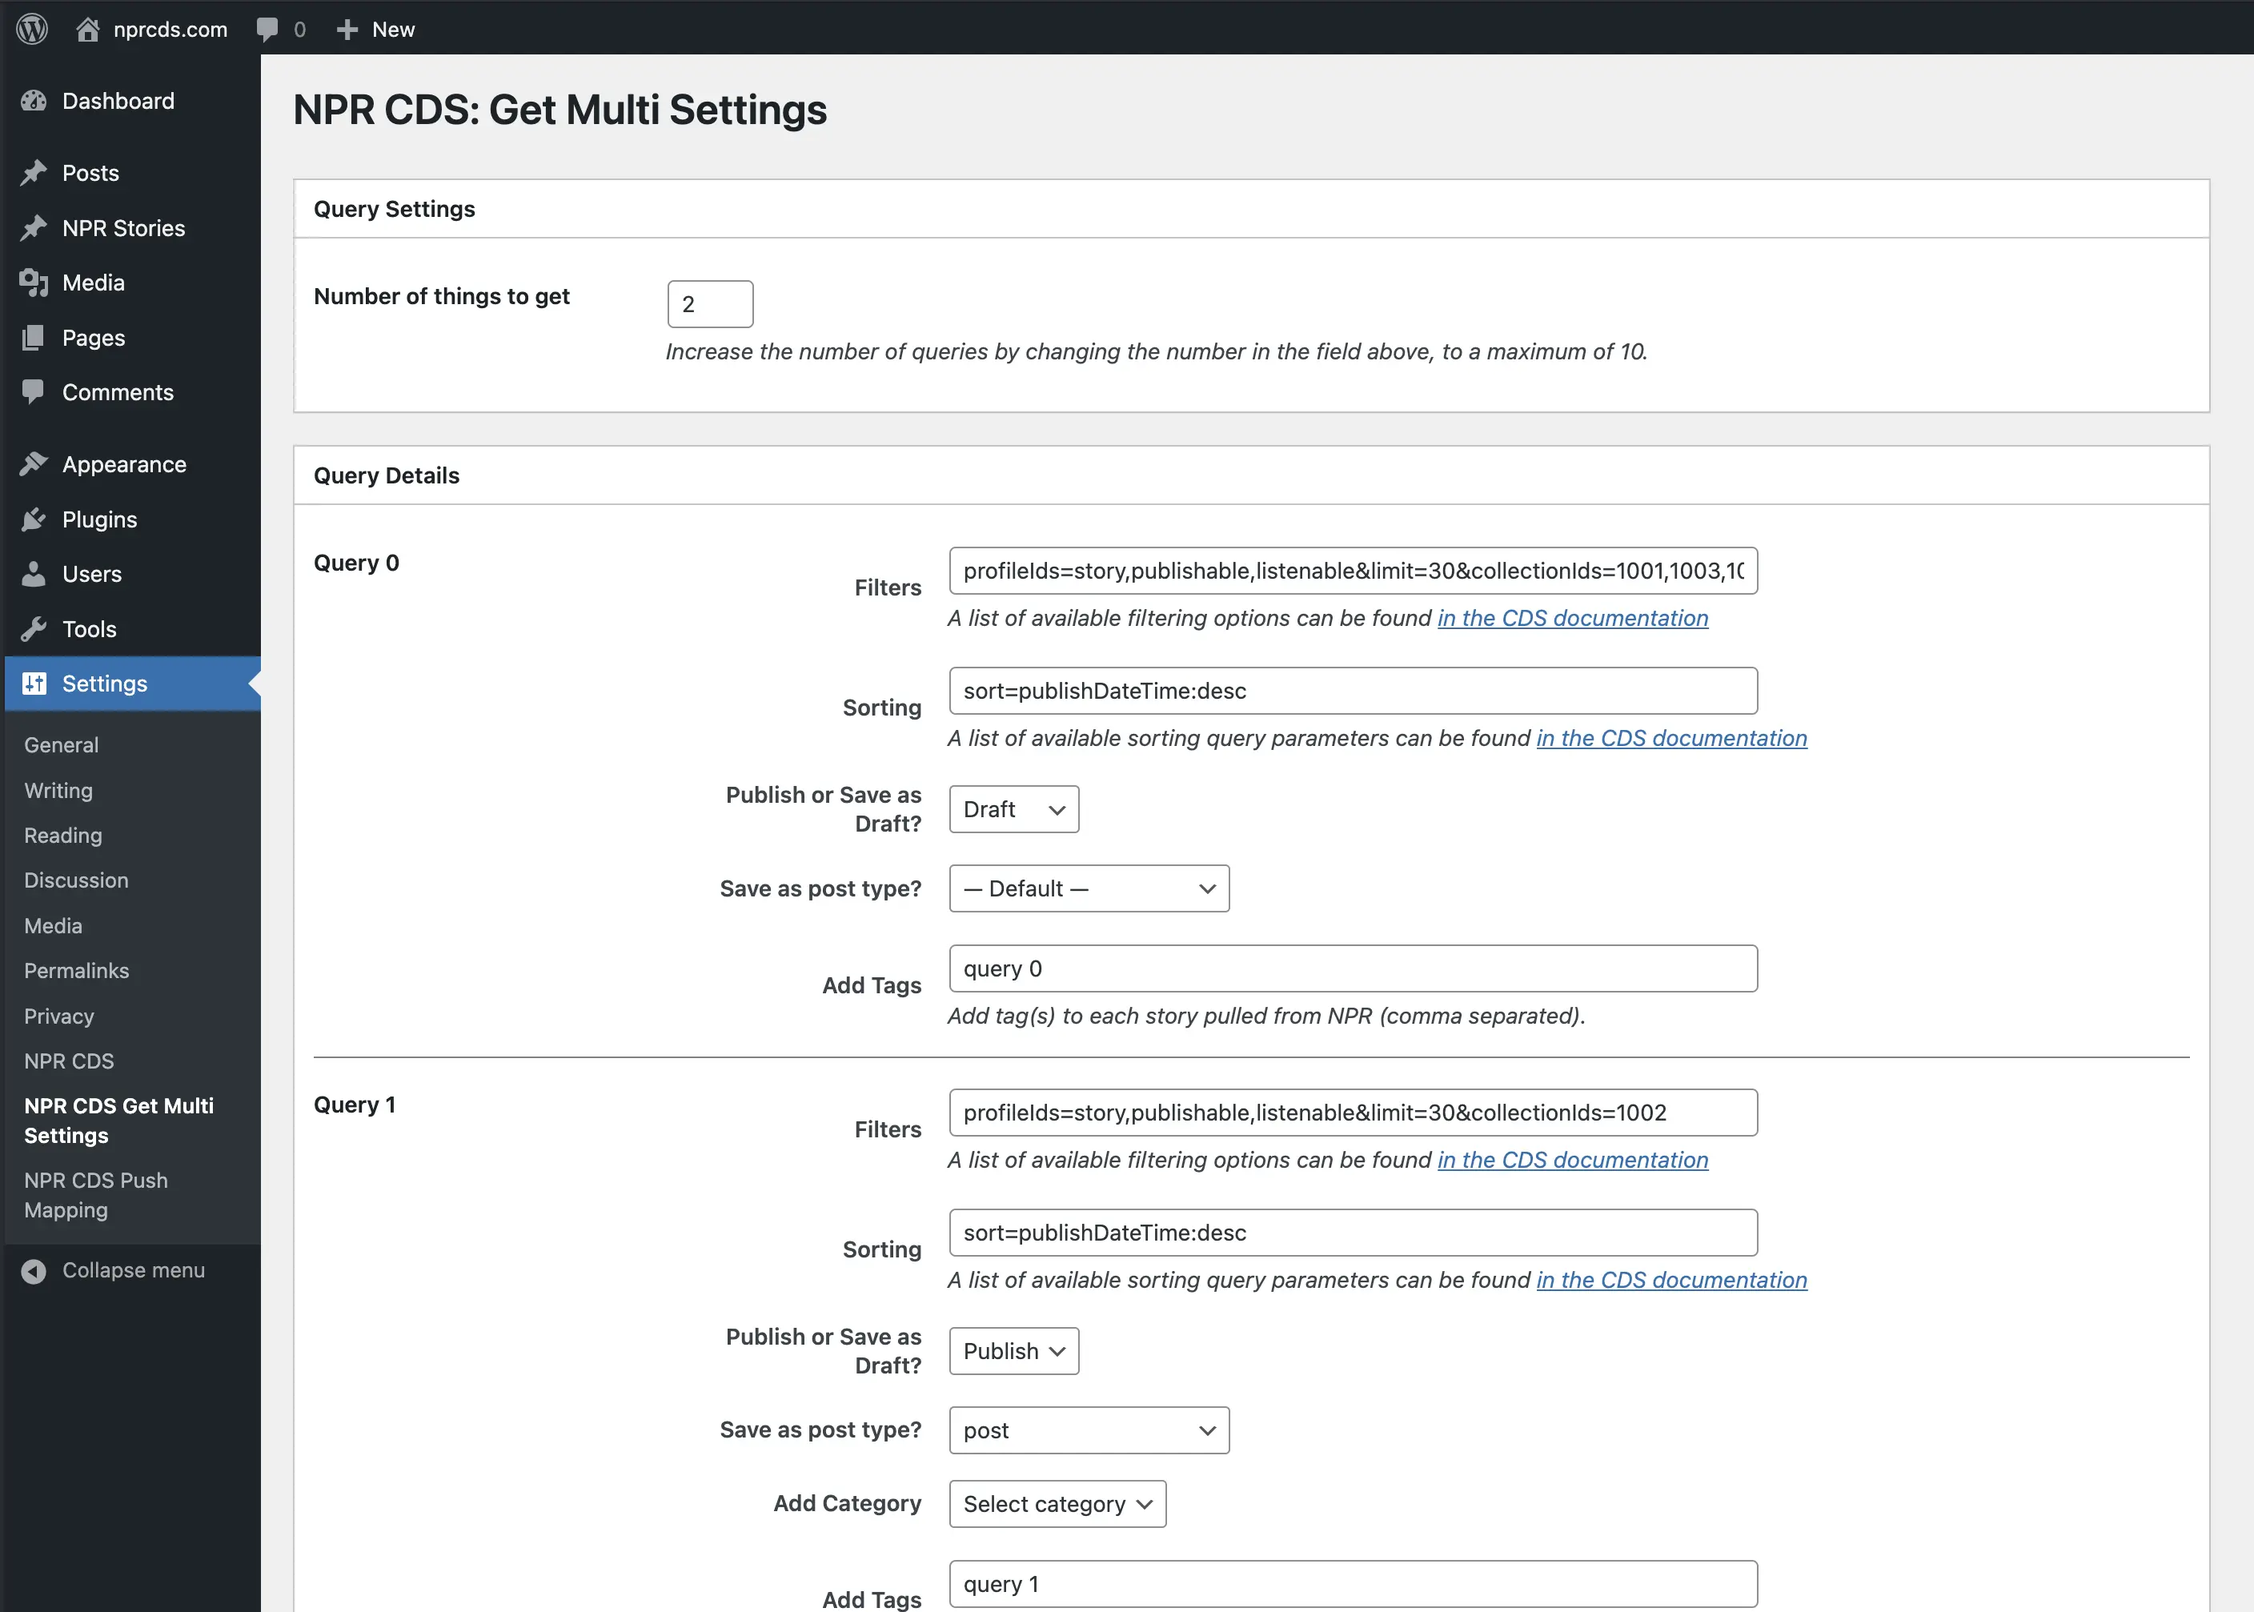
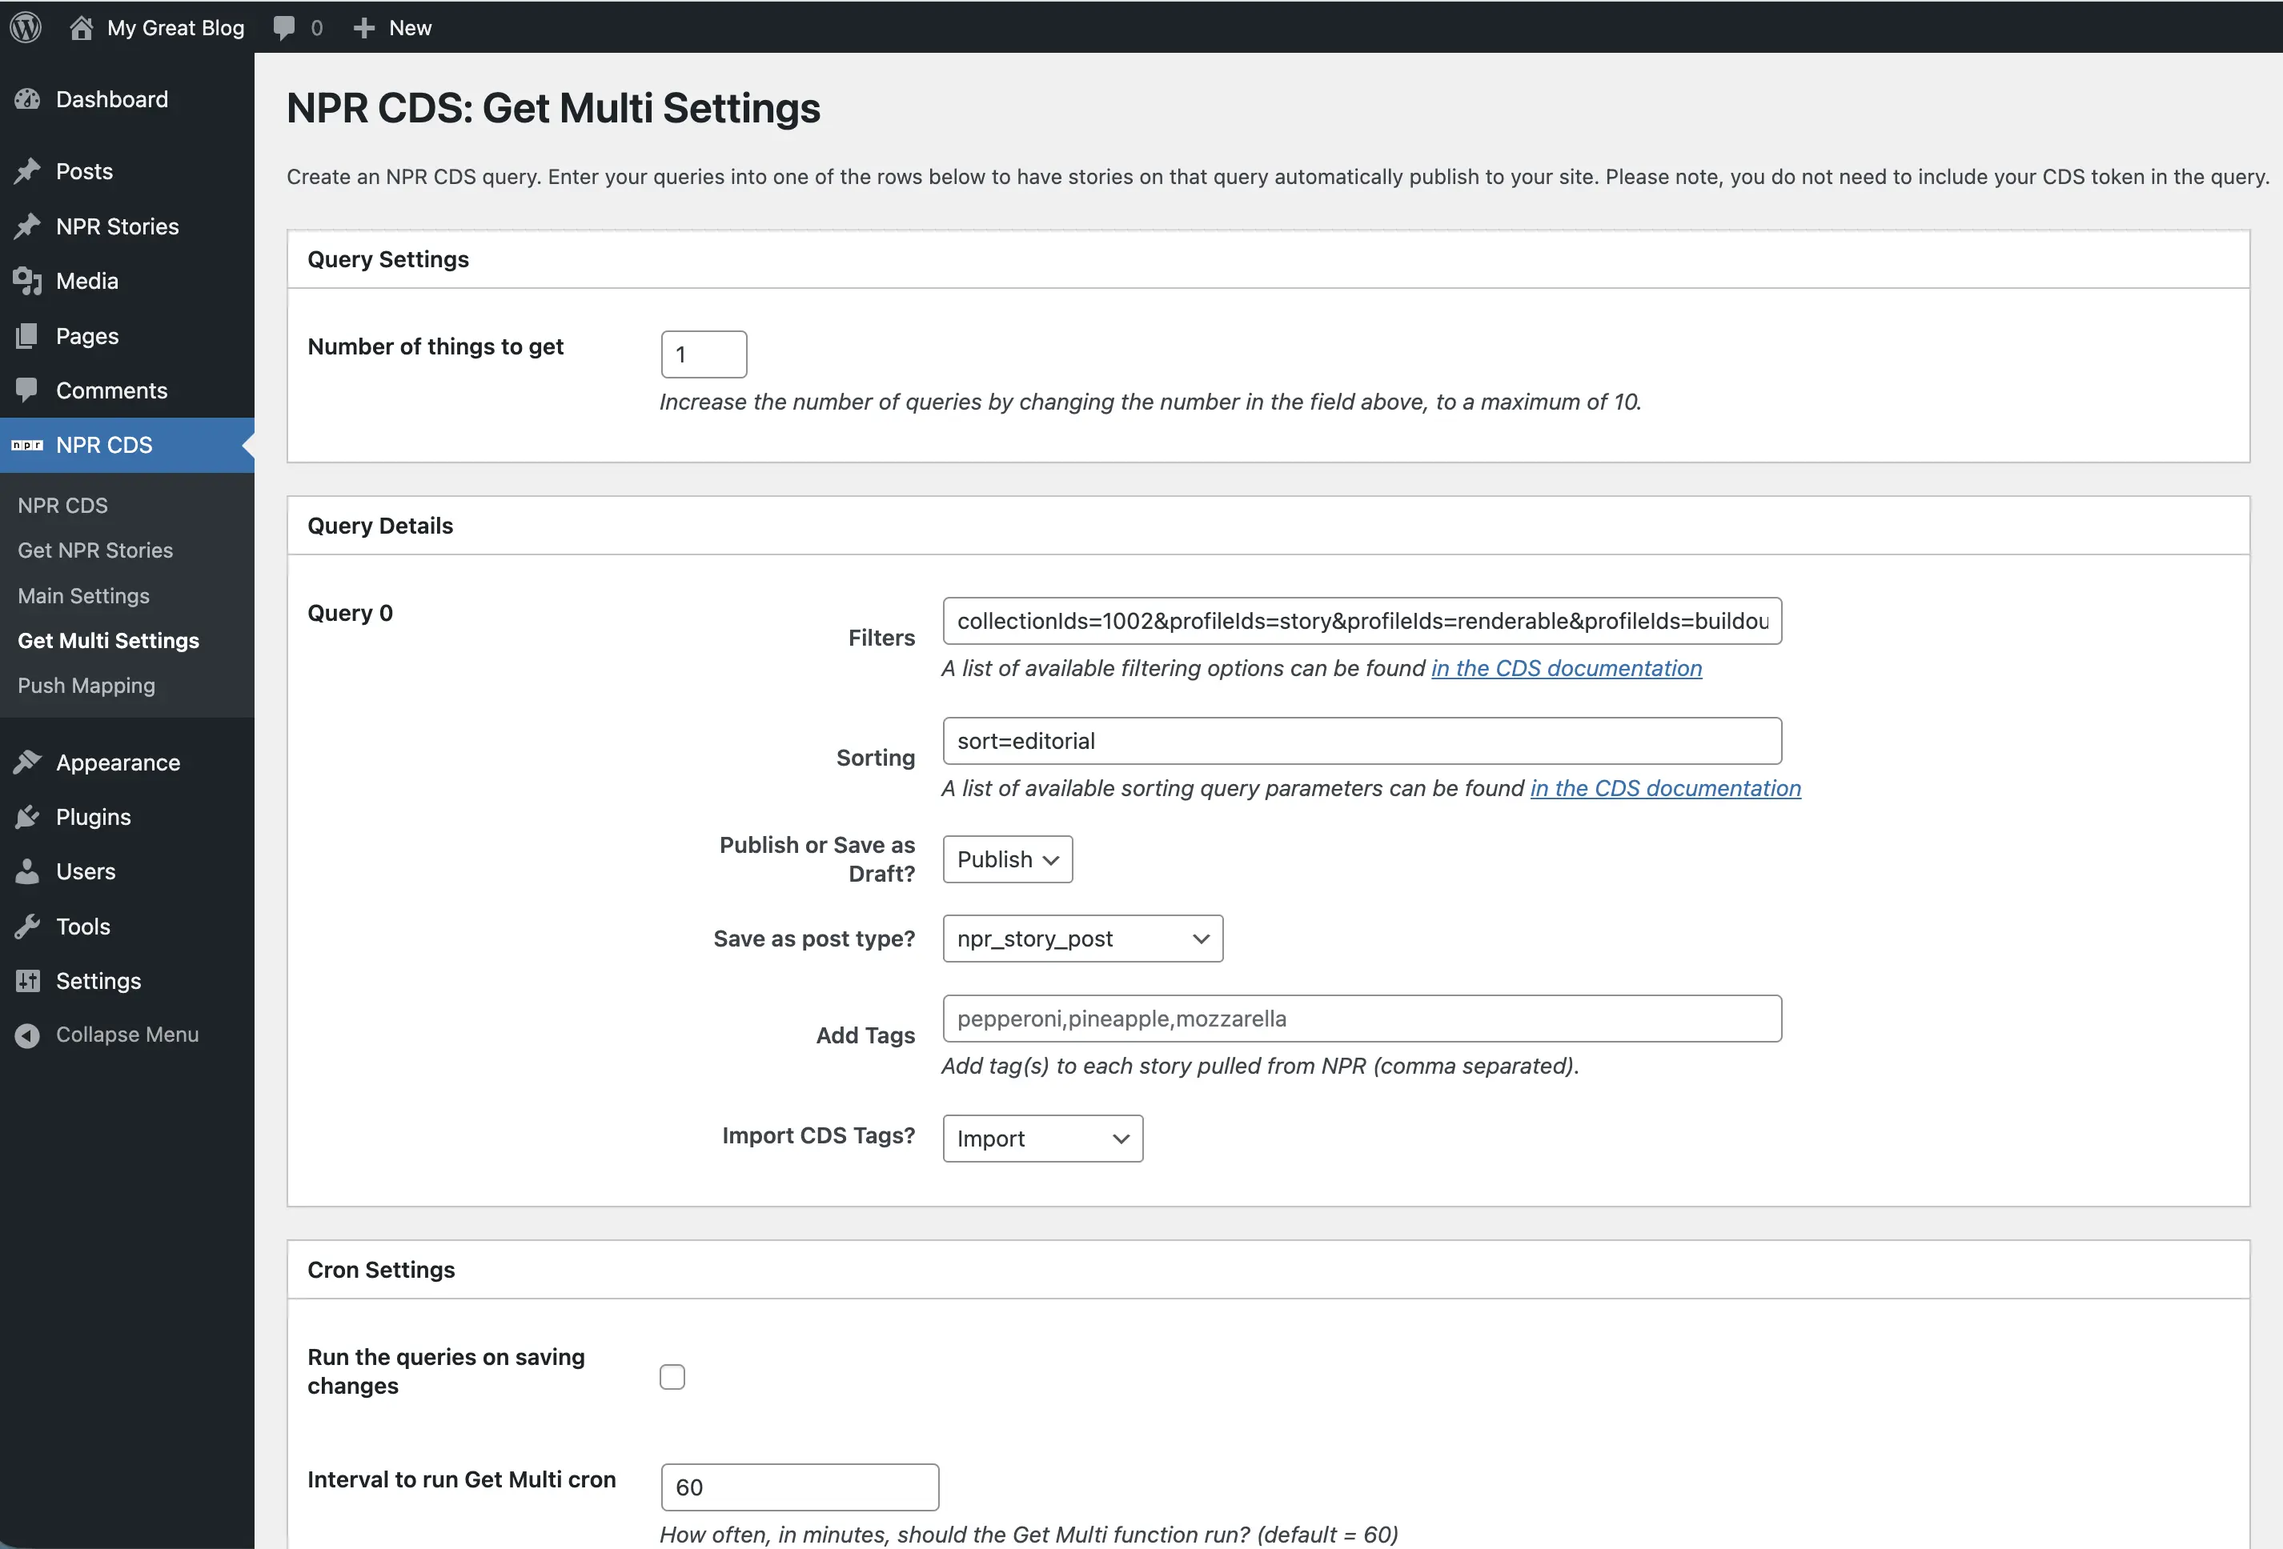
Bumping version number to v1.4 Updating Readme files and documentation assets to reflect the admin dashboard changes Adding NPR homepage eligibility section to detail elements

diff --git a/settings.php b/settings.php
@@ -1087,79 +1087,99 @@ class NPR_CDS {
 				padding: 0.75rem;
 				background-color: white;
 				border: 1px solid #5b5b5b;
-				&[open] summary {
-					border-bottom: 1px dotted #000000;
-					padding-bottom: 1rem;
-					&::after {
-						transform: rotate(0deg);
-					}
-				}
-				+ details {
-					margin-top: 0.5rem;
-				}
-				summary {
-					position: relative;
-					anchor-name: --summary;
-					&::marker {
-						content: "";
-					}
-					&::before,
-					&::after {
-						content: "";
-						border-block-start: 3px solid #237bbd;
-						height: 0;
-						width: 1rem;
-						inset-block-start: 50%;
-						inset-inline-end: 0;
-						position: absolute;
-						position-anchor: --summary;
-						position-area: top end;
-					}
-					&::after {
-						transform: rotate(90deg);
-						transform-origin: 50%;
-					}
-					.cds-summary {
-						display: grid;
-						width: calc(100% - 2rem);
-						grid-template-columns: 3fr 1fr 1fr;
-						gap: 1rem;
-						align-items: center;
-						div:first-child {
-							font-weight: 700;
-							font-size: 1rem;
-							line-height: 1.25;
-						}
-
-						div:nth-child(n+2) {
-							font-size: 0.85rem;
-							font-style: italic;
-						}
-					}
-				}
-				.npr-grid {
-					display: grid;
-					width: calc(100% - 2rem);
-					grid-template-columns: 3fr 1fr 1fr;
-					gap: 1rem;
-					align-items: start;
-				}
-				.npr-images {
-					display: grid;
-					width: 100%;
-					grid-template-columns: 4fr 1fr;
-					gap: 1rem;
-					align-items: center;
-					img {
-						max-width: 100%;
+				&.npr-homepage-eligible {
+					summary {
+						font-weight: bolder;
 					}
 					ul {
 						list-style: disc;
 						margin-inline-start: 1rem;
-						margin-block-start: 0.25rem;
 					}
-					p {
-						margin-block-end: 0;
+				}
+				&.npr-upload {
+					&[open] > summary {
+						border-bottom: 1px dotted #000000;
+						padding-bottom: 1rem;
+						&::after {
+							transform: rotate(0deg);
+						}
+					}
+					+ details {
+						margin-top: 0.5rem;
+					}
+					> summary {
+						position: relative;
+						anchor-name: --summary;
+						&::marker {
+							content: "";
+						}
+						&::before,
+						&::after {
+							content: "";
+							border-block-start: 3px solid #F15B1C;
+							height: 0;
+							width: 1rem;
+							inset-block-start: 50%;
+							inset-inline-end: 0;
+							position: absolute;
+							position-anchor: --summary;
+							position-area: top end;
+						}
+						&::after {
+							transform: rotate(90deg);
+							transform-origin: 50%;
+						}
+						.cds-summary {
+							display: grid;
+							width: calc(100% - 2rem);
+							grid-template-columns: 3fr 1fr 1fr;
+							gap: 1rem;
+							align-items: center;
+							div:first-child {
+								font-weight: 700;
+								font-size: 1rem;
+								line-height: 1.25;
+							}
+							div:nth-child(n+2) {
+								font-size: 0.85rem;
+								font-style: italic;
+							}
+						}
+					}
+					.npr-grid {
+						display: grid;
+						width: calc(100% - 2rem);
+						grid-template-columns: 3fr 1fr 1fr;
+						gap: 1rem;
+						align-items: start;
+					}
+					.npr-images {
+						display: grid;
+						width: 100%;
+						grid-template-columns: 4fr 1fr;
+						gap: 1rem;
+						align-items: center;
+						img {
+							max-width: 100%;
+						}
+						ul {
+							list-style: disc;
+							margin-inline-start: 1rem;
+							margin-block-start: 0.25rem;
+						}
+						p {
+							margin-block-end: 0;
+						}
+					}
+				}
+			}
+			.npr-homepage {
+				background-color: #4C85C5;
+				padding: 0.5rem;
+				p {
+					margin-block-start: 0;
+					&.homepage-eligible {
+						color: white;
 					}
 				}
 			}
@@ -1214,9 +1234,23 @@ class NPR_CDS {
 
 		if ( empty( $api->message ) ) {
 			foreach ( $api->stories as $story ) {
+				$homepage_eligible = [
+					'overall' => 'No',
+					'collection' => 'No',
+					'publish-time' => 'No',
+					'image-wide-primary' => 'No',
+					'image-producer-credit' => 'No',
+					'image-provider-credit' => 'No',
+					'teaser' => 'No'
+				];
 				$date_format = get_option( 'date_format' );
 				$gmt_offset = get_option( 'gmt_offset' ) * 3600;
-				$publishTime = date( $date_format, strtotime( $story->publishDateTime ) + $gmt_offset );
+				$pubTimestamp = strtotime( $story->publishDateTime ) + $gmt_offset;
+				$now = time() + $gmt_offset;
+				if ( $now - $pubTimestamp < 259200 ) {
+					$homepage_eligible['publish-time'] = 'Yes';
+				}
+				$publishTime = date( $date_format, $pubTimestamp );
 				$lastModified = date( $date_format, strtotime( $story->editorialLastModifiedDateTime ) + $gmt_offset );
 				$local_id = explode( '-', $story->id )[1];
 				$edit_link = admin_url( 'post.php?post=' . $local_id . '&action=edit');
@@ -1240,6 +1274,7 @@ class NPR_CDS {
 						$collect_id = end( $cexp );
 						if ( $collect_id == '319418027' ) {
 							$collect_arr[] = 'NPR One/Homepage';
+							$homepage_eligible['collection'] = 'Yes';
 						} elseif ( $collect_id == '500549368' ) {
 							$collect_arr[] = 'NPR One Featured';
 						}
@@ -1262,12 +1297,21 @@ class NPR_CDS {
 							foreach ( $image->rels as $rel ) {
 								if ( $rel !== 'primary' ) {
 									$main_rel = $rel;
+									if ( $main_rel == 'promo-image-wide' ) {
+										$homepage_eligible['image-wide-primary'] = 'Yes';
+									}
 								}
 							}
 							foreach ( $image_asset->enclosures as $enclosure ) {
 								if ( in_array( 'primary', $enclosure->rels ) ) {
 									$image_src = $enclosure->href;
 								}
+							}
+							if ( !empty( $image_asset->producer ) ) {
+								$homepage_eligible['image-producer-credit'] = 'Yes';
+							}
+							if ( !empty( $image_asset->provider ) ) {
+								$homepage_eligible['image-provider-credit'] = 'Yes';
 							}
 
 							$primary_image = <<<EOT
@@ -1288,12 +1332,39 @@ EOT;
 						}
 					}
 				}
+				if ( !empty( $story->teaser ) && ( !str_contains( $story->teaser, '>' ) || !str_contains( $story->teaser, '<' ) ) ) {
+					$homepage_eligible['teaser'] = 'Yes';
+				}
+				if (
+					$homepage_eligible['collection'] == 'Yes' &&
+					$homepage_eligible['publish-time'] == 'Yes' &&
+					$homepage_eligible['image-wide-primary'] == 'Yes' &&
+					$homepage_eligible['image-producer-credit'] == 'Yes' &&
+					$homepage_eligible['image-provider-credit'] == 'Yes' &&
+					$homepage_eligible['teaser'] == 'Yes'
+				) {
+					$homepage_eligible['overall'] = 'Yes';
+				}
 				$profiles = implode( ', ', $profiles_arr );
 				$owners = implode( ', ', $owners_arr );
 				$collections = implode( ', ', $collect_arr );
 				$bylines = implode( ', ', $bylines_arr );
+				$homepage = <<<EOT
+					<details class="npr-homepage-eligible">
+						<summary>Why?</summary>
+						<p>Your story...</p>
+						<ul>
+							<li>is in the NPR One collection? <strong>{$homepage_eligible['collection']}</strong></li>
+							<li>was published < 72 hours ago? <strong>{$homepage_eligible['publish-time']}</strong></li>
+							<li>has a teaser/description with no formatting? <strong>{$homepage_eligible['teaser']}</strong></li>
+							<li>has a wide primary image? <strong>{$homepage_eligible['image-wide-primary']}</strong></li>
+							<li>has an image producer/source? <strong>{$homepage_eligible['image-provider-credit']}</strong></li>
+							<li>has an image provider/credit? <strong>{$homepage_eligible['image-producer-credit']}</strong></li>
+						</ul>
+					</details>
+EOT;
 				echo <<<EOT
-				<details>
+				<details class="npr-upload">
 					<summary>
 						<div class="cds-summary">
 							<div>{$story->title}</div>
@@ -1308,13 +1379,17 @@ EOT;
 						</div>
 						<div>
 							<p><strong>Bylines:</strong><br>{$bylines}</p>
+							<p><strong>Owners:</strong><br>{$owners}</p>
 							<p><strong>Collections:</strong><br>{$collections}</p>
 							<p><strong>Profiles:</strong><br>{$profiles}</p>
 						</div>
 						<div>
 							<p><strong>CDS ID:</strong><br>{$story->id}</p>
-							<p><strong>Owners:</strong><br>{$owners}</p>
 							<p><strong><a href="{$edit_link}">Edit in WordPress</a></strong></p>
+							<div class="npr-homepage">
+								<p class="homepage-eligible">NPR Homepage Eligible: <strong>{$homepage_eligible['overall']}</strong></p>
+								{$homepage}
+							</div>
 						</div>
 					</div>
 				</details>

diff --git a/npr_cds.php b/npr_cds.php
@@ -3,7 +3,7 @@
  * Plugin Name: NPR Content Distribution Service
  * Plugin URI: https://github.com/OpenPublicMedia/npr-cds-wordpress
  * Description: A collection of tools for reusing content from NPR.org, now maintained and updated by NPR member station developers
- * Version: 1.3.7
+ * Version: 1.4
  * Requires at least: 4.0
  * Requires PHP: 8.0
  * Author: Open Public Media
@@ -374,7 +374,7 @@ function npr_cds_create_post_type(): void {
 add_action( 'init', 'npr_cds_add_wide_image_crops' );
 
 function npr_cds_add_wide_image_crops(): void {
-	add_image_size( 'npr-cds-wide', 1600, 900, [ 'center', 'center' ] );
+	add_image_size( 'npr-cds-wide', 1200, 675, [ 'center', 'center' ] );
 }
 /**
  * Register the meta box and enqueue its scripts

diff --git a/README.md b/README.md
@@ -5,10 +5,10 @@ A collection of tools for publishing from and to NPR's Content Distribution Serv
 - Contributors: jwcounts, tamw-wnet, bdivver
 - Original developers: NPRDS, INN Labs
 - Requires at least: 4.0
-- Tested up to: 6.7
+- Tested up to: 6.8.3
 - Requires PHP: 8.0
-- Version: 1.3.7
-- Stable tag: 1.3.7
+- Version: 1.4
+- Stable tag: 1.4
 - Author: Open Public Media
 - Author URI: https://github.com/OpenPublicMedia/
 - License: GPLv2
@@ -32,7 +32,7 @@ The WordPress plugin was originally developed as an Open Source plugin by NPR an
 
 1. Upload the plugin files to the `/wp-content/plugins/plugin-name` directory, or install the plugin through the WordPress plugins screen directly.
 2. Activate the plugin through the 'Plugins' screen in WordPress
-3. Use the **Settings -> NPR CDS** screen to configure the plugin. Begin by entering your CDS token, then add your Push URL and Org ID.
+3. Use the **NPR CDS -> Main Settings** screen to configure the plugin. Begin by entering your CDS token, then add your Push URL and Org ID.
 
 ## Frequently Asked Questions
 
@@ -74,9 +74,17 @@ NPR Stories having been retrieved
 
 ![NPR Stories having been retrieved](docs/assets/img/npr-stories.png.webp)
 
+Viewing Stories Uploaded to the CDS
+
+![Viewing Stories Uploaded to the CDS](docs/assets/img/cds-uploaded-stories.png.webp)
+
 
 ## Changelog
 <!-- copy from readme.txt to here -->
+### V.1.4
+* Consolidated all of the admin dashboard pages into a unified menu
+* Added a dashboard to view stories uploaded to the CDS. Contains general publishing information, as well as info on why or why not the story is eligible for the NPR homepage
+
 ### V.1.3.7
 * Stories submitted to the CDS can now be featured on the NPR homepage. Most the requirements for feature were included in the plugin previously, but the features require a 16:9 image, which this update addresses. This update creates a new image size which is a strict 16:9 crop, and also formats and sends more image crops to the CDS, with the full sized image as a backstop.
 * Implementing filters for push post type, custom title, custom body, and custom byline (h/t @justinferrell for the suggestion)
